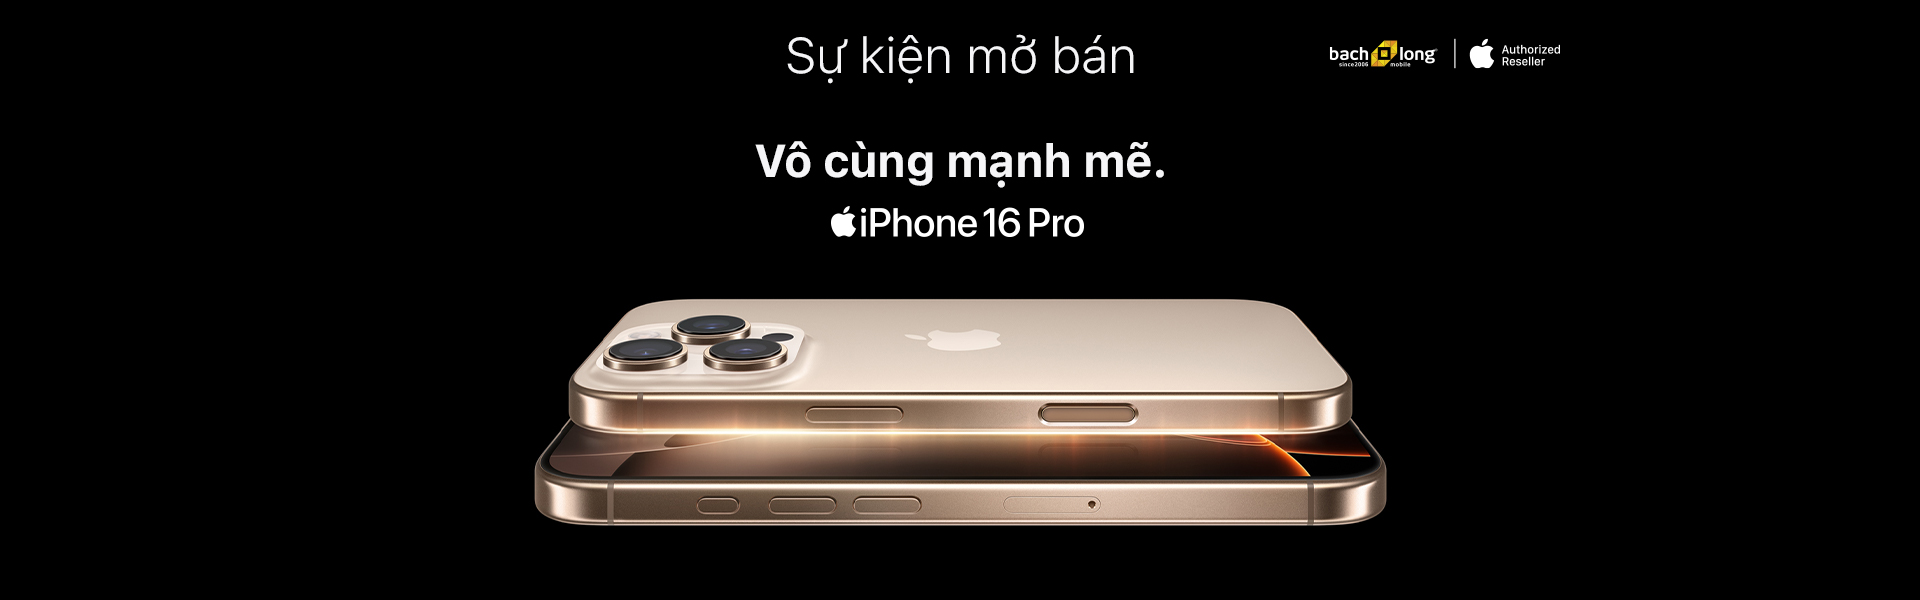
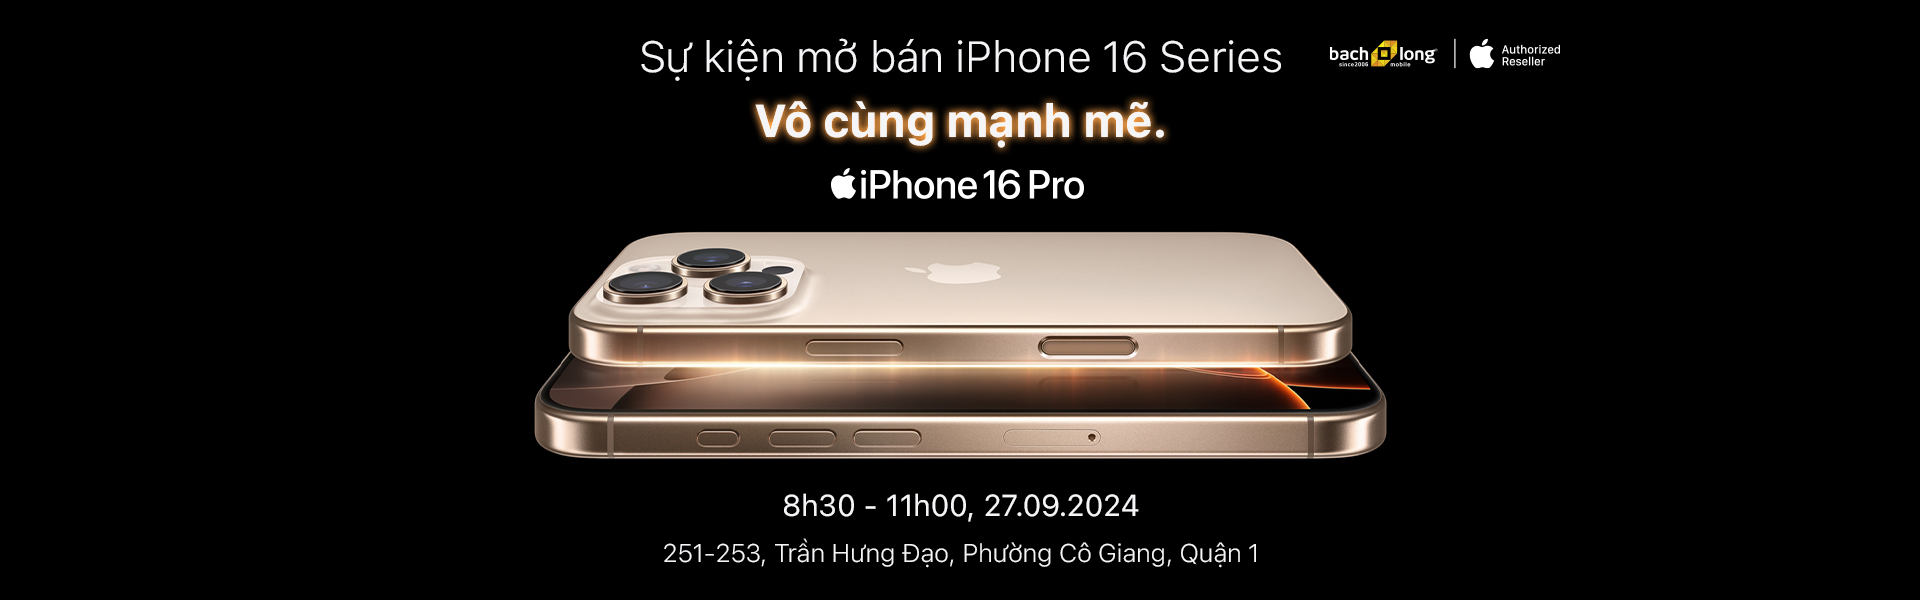
update header

Changed region(s): [[0.2812, 0.15, 0.75, 0.96], [0.3125, 0.06, 0.6875, 0.12]]

diff --git a/src/Component/UpgradeList/upgrade.scss b/src/Component/UpgradeList/upgrade.scss
@@ -15,6 +15,10 @@
         font-size: 3.2rem;
         color: #ffff;
         font-weight: 500;
+        font-family: "Arial", sans-serif;
+        text-shadow: 0 0 10px rgba(255, 255, 255, 0.8),
+          0 0 20px rgba(255, 153, 0, 0.8), 0 0 30px rgba(255, 153, 0, 0.6),
+          0 0 40px rgba(255, 153, 0, 0.4), 0 0 50px rgba(255, 153, 0, 0.3);
         @media screen and (max-width: 768px) {
           font-size: 2.4rem;
         }

diff --git a/src/Style/Header.scss b/src/Style/Header.scss
@@ -34,7 +34,7 @@
   background-color: #000;
   padding: 10px 20px;
   border-radius: 5px;
-  margin-bottom: 20px;
+  margin: 20px 0;
   background-color: black;
 }
 .promo_card {

diff --git a/src/Style/InfoTechnical.scss b/src/Style/InfoTechnical.scss
@@ -220,7 +220,7 @@
 }
 @media (max-width: 768px) {
   .productList {
-    gap: 5px;
+    gap: 3px;
   }
   .title {
     font-size: 16px;
